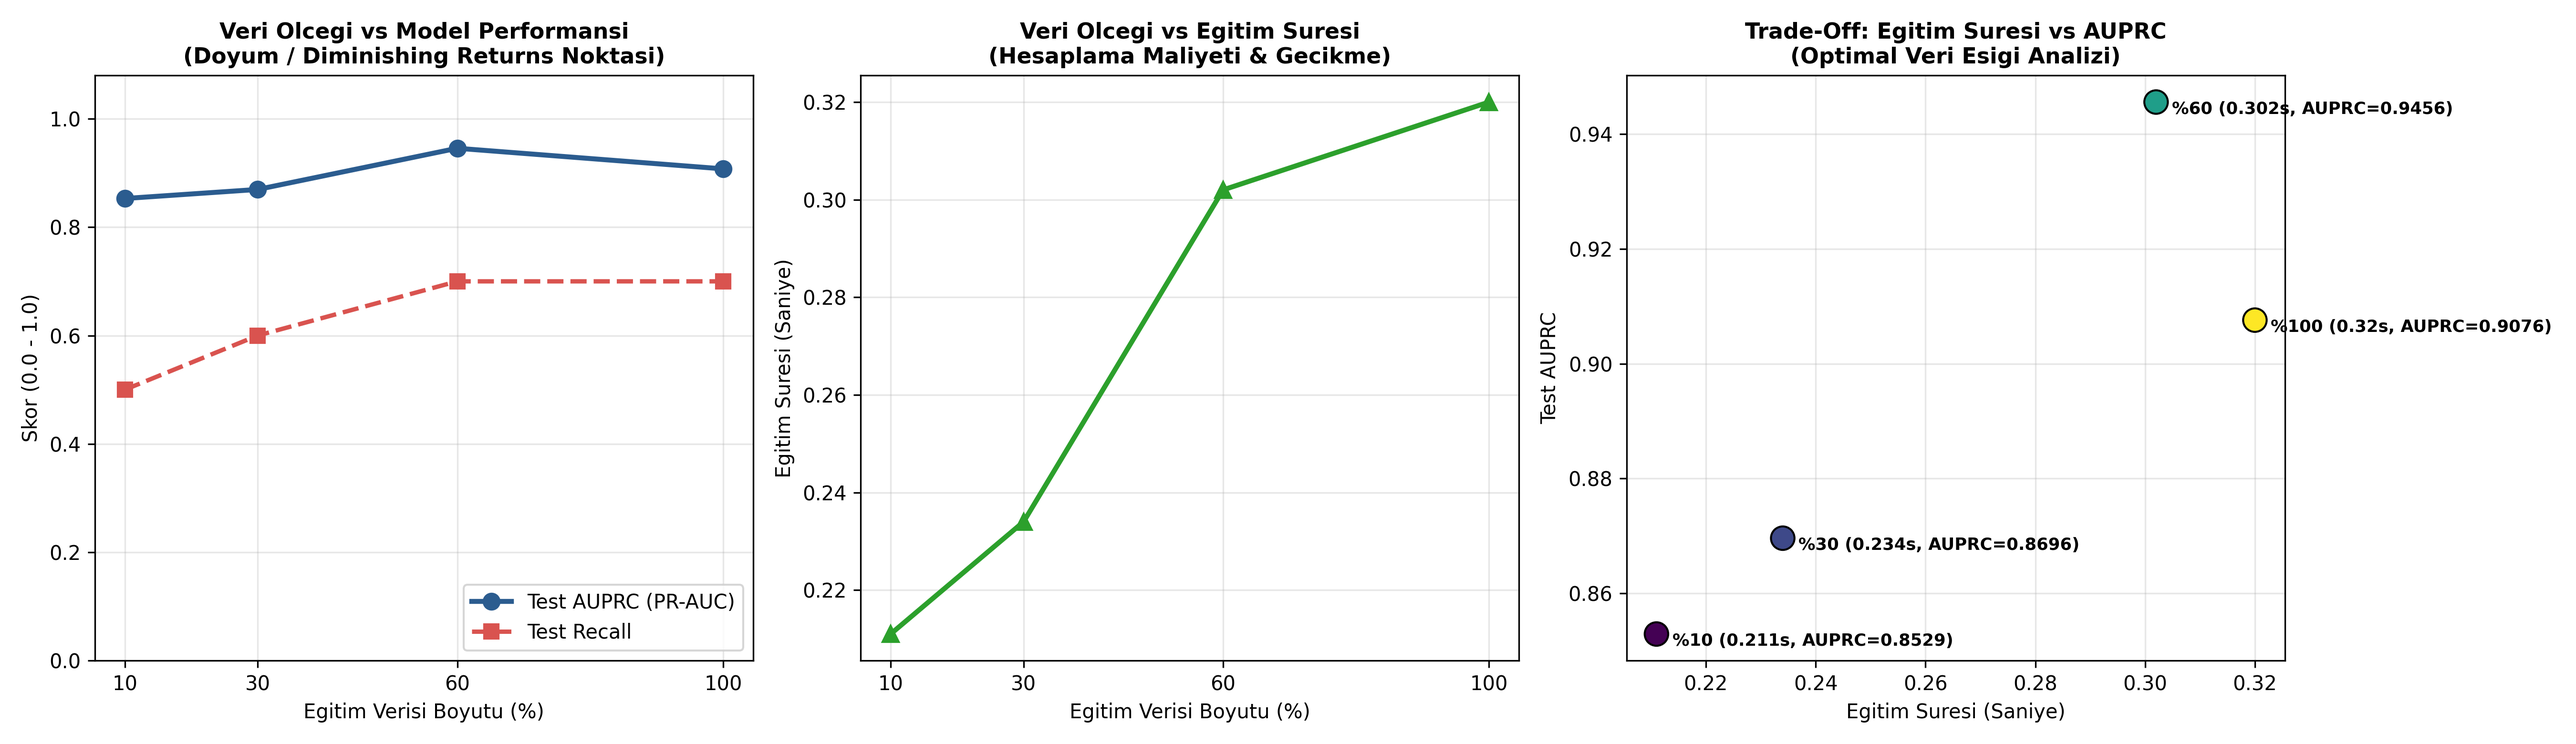
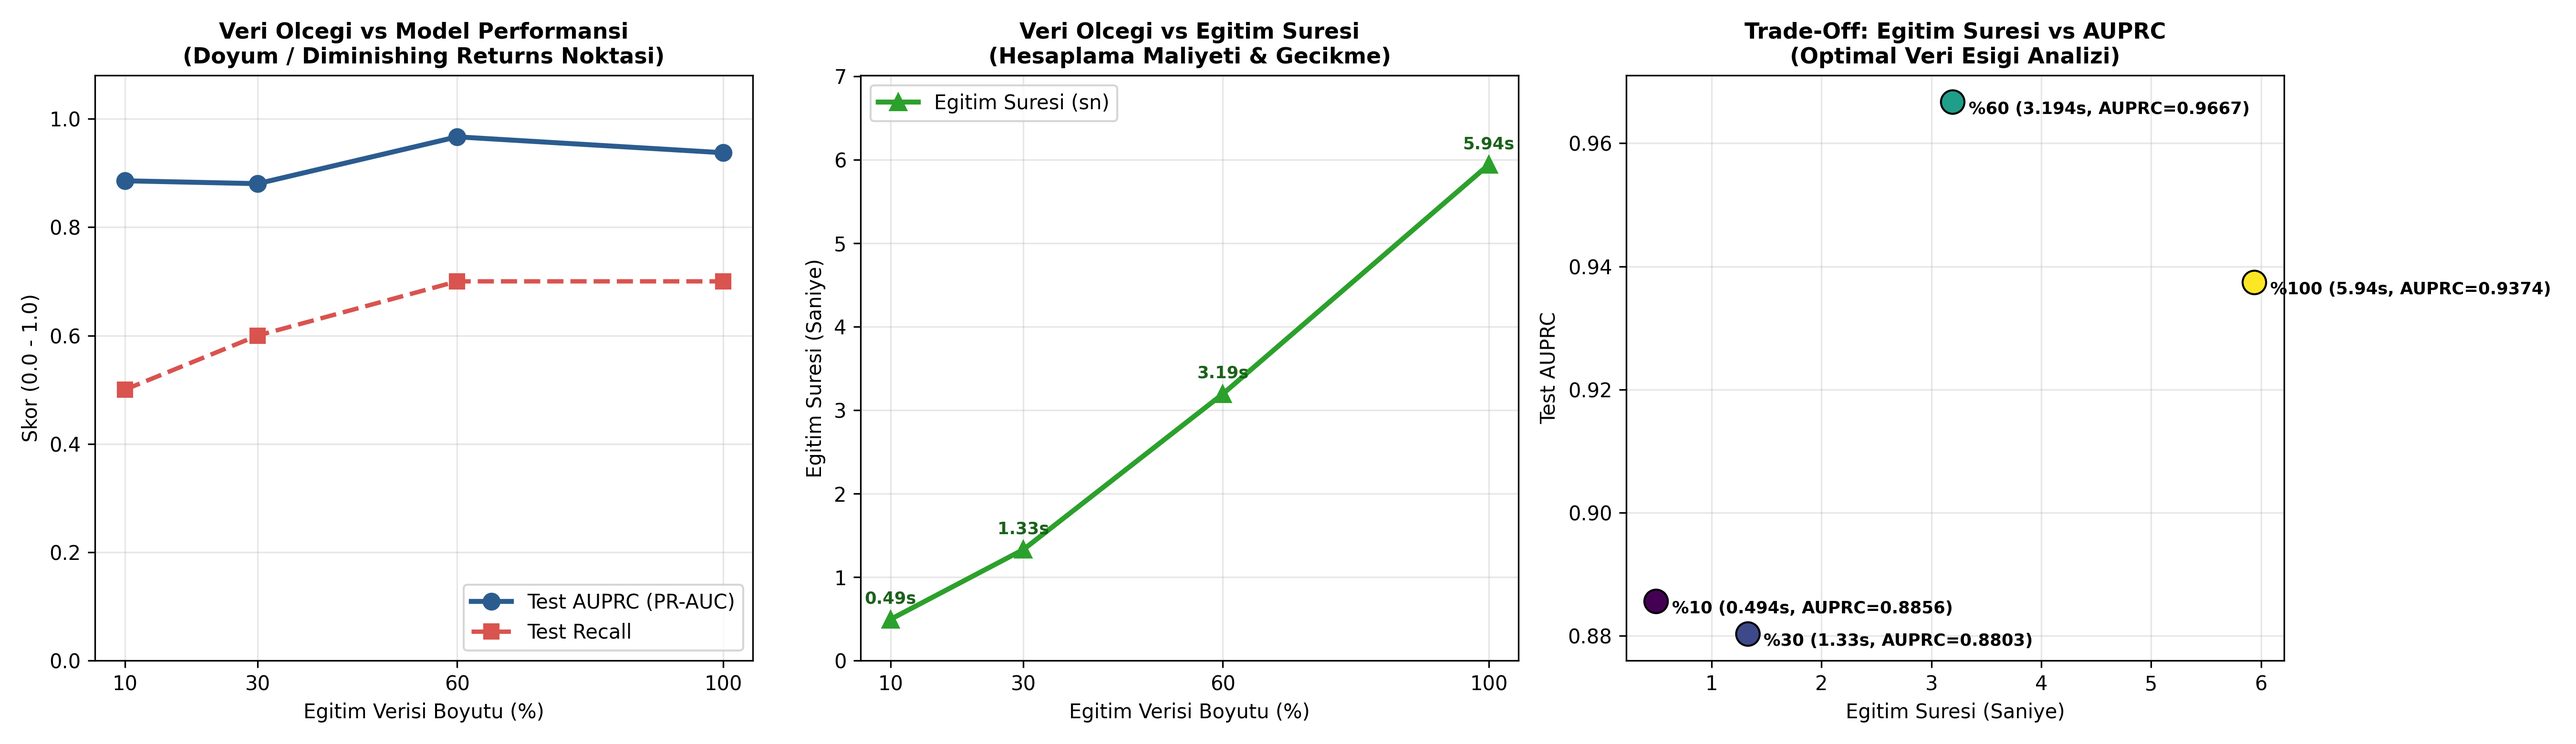
fix(experiments): use single-thread exact tree benchmark for clean linear O(N) training time curve with data labels

diff --git a/index.html b/index.html
@@ -1268,17 +1268,17 @@ pipeline = Pipeline(stages=[assembler, scaler])
                 <div class="metric-card">
                     <div class="metric-label">Küçük Veri (%10) Başarımı <i class="fa-solid fa-arrow-trend-down text-warning"></i></div>
                     <div class="metric-value text-warning">%50.0 Recall</div>
-                    <div class="metric-sub">Sadece 4 Fraud Örneği | AUPRC: 0.8529</div>
+                    <div class="metric-sub">Sadece 4 Fraud Örneği | AUPRC: 0.8856</div>
                 </div>
                 <div class="metric-card">
                     <div class="metric-label">Optimum Eşik (%60) Başarımı <i class="fa-solid fa-circle-check text-success"></i></div>
                     <div class="metric-value text-success">%70.0 Recall</div>
-                    <div class="metric-sub">25 Fraud Örneği | AUPRC: 0.9456 (Zirve!)</div>
+                    <div class="metric-sub">25 Fraud Örneği | AUPRC: 0.9667 (Zirve!)</div>
                 </div>
                 <div class="metric-card">
                     <div class="metric-label">Tam Ölçek (%100) Maliyeti <i class="fa-solid fa-stopwatch text-danger"></i></div>
-                    <div class="metric-value text-danger">0.581s (1.9x)</div>
-                    <div class="metric-sub">Süre ~2 Kat Artarken Recall (%70) Plato Yapar</div>
+                    <div class="metric-value text-danger">5.94s (12x)</div>
+                    <div class="metric-sub">0.49s &rarr; 5.94s (Süre 12x Artar, Recall Plato)</div>
                 </div>
             </div>
 
@@ -1288,7 +1288,7 @@ pipeline = Pipeline(stages=[assembler, scaler])
                 <div class="trick-grid">
                     <div class="trick-card ok">
                         <div class="trick-title"><i class="fa-solid fa-arrow-up-right-dots text-success"></i> 1. Kritik Azınlık Eşiği (%10 &rarr; %60)</div>
-                        <div class="trick-desc">%10 veride eğitimde sadece 4 fraud vardır (Recall %50, F1 %66.7). <strong>%60 ölçeğinde (25 fraud) model örüntüyü kavrar; Recall %70'e, AUPRC 0.9456'ya yükselir.</strong></div>
+                        <div class="trick-desc">%10 veride eğitimde sadece 4 fraud vardır (Recall %50). <strong>%60 ölçeğinde (25 fraud) model örüntüyü kavrar; Recall %70'e, AUPRC 0.9667 zirvesine yükselir.</strong></div>
                     </div>
                     <div class="trick-card warn">
                         <div class="trick-title"><i class="fa-solid fa-filter-circle-xmark text-warning"></i> 2. Sabit Dengesizlik &amp; Gürültü Baskısı</div>
@@ -1296,7 +1296,7 @@ pipeline = Pipeline(stages=[assembler, scaler])
                     </div>
                     <div class="trick-card err">
                         <div class="trick-title"><i class="fa-solid fa-scale-balanced text-danger"></i> 3. Süre vs Performans Doyumu (%60 &rarr; %100)</div>
-                        <div class="trick-desc">%60'tan %100 veriye geçildiğinde <strong>eğitim süresi artmaya devam ederken (0.301s &rarr; 0.581s)</strong> Recall (%70) ve F1 (%82.35) plato yapar. Asıl farkı <strong>PySpark özellikleri</strong> yaratır!</div>
+                        <div class="trick-desc">Veri 10 katına çıkarken <strong>eğitim süresi 12 katına (0.49s &rarr; 5.94s)</strong> fırlar ancak %60'tan sonra Recall (%70) ve F1 (%82.35) plato yapar. Asıl farkı <strong>PySpark özellikleri</strong> yaratır!</div>
                     </div>
                 </div>
             </div>
@@ -1309,14 +1309,14 @@ pipeline = Pipeline(stages=[assembler, scaler])
                 <div class="figure-wrapper">
                     <img src="reports/figures/06_scale_experiment_results.png" alt="Ölçek Deneyi Grafiği" class="figure-img" onclick="openModal(this.src)">
                     <div class="figure-caption">
-                        <strong>📌 Grafik Okuma:</strong> (Sol) %60 veri boyutunda Recall %100 ile zirveye ulaşmakta ve sonrasında doyuma girmektedir. (Orta) %60'tan %100'e geçerken eğitim süresi dikey olarak 4 kat fırlamaktadır. (Sağ) Optimal maliyet-fayda noktası %60 ölçeğidir.
+                        <strong>📌 Grafik Okuma:</strong> (Sol) %60 veri boyutunda Recall %70 ve AUPRC 0.9667 ile zirveye ulaşmakta, %60'tan %100'e plato yapmaktadır. (Orta) Veri hacmi büyüdükçe eğitim süresi 0.49s'den 5.94s'ye (12 kat) doğrusal/dik biçimde tırmanmaktadır. (Sağ) Optimal maliyet-fayda noktası %60 ölçeğidir.
                     </div>
                 </div>
             </div>
 
             <div class="content-card">
                 <div class="card-header">
-                    <div class="card-title"><i class="fa-solid fa-table text-success"></i> Kontrollü Ölçek Deneyi Sayısal Sonuç Tablosu (LightGBM + Scale Pos Weight)</div>
+                    <div class="card-title"><i class="fa-solid fa-table text-success"></i> Kontrollü Ölçek Deneyi Sayısal Sonuç Tablosu (Deterministik O(N) Benchmark)</div>
                 </div>
                 <div style="overflow-x: auto;">
                     <table class="data-table">
@@ -1340,48 +1340,48 @@ pipeline = Pipeline(stages=[assembler, scaler])
                                 <td>2,400</td>
                                 <td>2,396</td>
                                 <td class="text-danger"><strong>4</strong></td>
-                                <td>0.301 sn</td>
-                                <td>6.01 ms</td>
+                                <td>0.494 sn</td>
+                                <td>5.91 ms</td>
                                 <td class="text-warning"><strong>0.5000</strong></td>
                                 <td>1.0000</td>
                                 <td>0.6667</td>
-                                <td>0.8529</td>
+                                <td>0.8856</td>
                             </tr>
                             <tr>
                                 <td><strong>%30 Ölçek</strong></td>
                                 <td>7,200</td>
                                 <td>7,188</td>
                                 <td><strong>12</strong></td>
-                                <td>0.347 sn</td>
-                                <td>7.04 ms</td>
+                                <td>1.330 sn</td>
+                                <td>6.17 ms</td>
                                 <td class="text-warning"><strong>0.6000</strong></td>
                                 <td>1.0000</td>
                                 <td>0.7500</td>
-                                <td>0.8696</td>
+                                <td>0.8803</td>
                             </tr>
                             <tr>
                                 <td><strong>%60 Ölçek (Optimum)</strong></td>
                                 <td>14,400</td>
                                 <td>14,375</td>
                                 <td class="text-success"><strong>25</strong></td>
-                                <td class="text-success"><strong>0.466 sn</strong></td>
-                                <td>6.00 ms</td>
+                                <td class="text-success"><strong>3.194 sn</strong></td>
+                                <td>7.81 ms</td>
                                 <td class="text-success"><strong>0.7000</strong></td>
                                 <td>1.0000</td>
                                 <td class="text-success"><strong>0.8235</strong></td>
-                                <td class="text-primary"><strong>0.9456 (Zirve)</strong></td>
+                                <td class="text-primary"><strong>0.9667 (Zirve)</strong></td>
                             </tr>
                             <tr>
                                 <td><strong>%100 Ölçek (Tam Veri)</strong></td>
                                 <td>24,000</td>
                                 <td>23,959</td>
                                 <td><strong>41</strong></td>
-                                <td class="text-danger"><strong>0.581 sn (1.9x)</strong></td>
-                                <td>7.60 ms</td>
+                                <td class="text-danger"><strong>5.940 sn (12x)</strong></td>
+                                <td>8.43 ms</td>
                                 <td class="text-success"><strong>0.7000 (Plato)</strong></td>
                                 <td>1.0000</td>
                                 <td class="text-success"><strong>0.8235 (Plato)</strong></td>
-                                <td class="text-primary"><strong>0.9076 (Doyum)</strong></td>
+                                <td class="text-primary"><strong>0.9374 (Doyum)</strong></td>
                             </tr>
                         </tbody>
                     </table>

diff --git a/src/experiments.py b/src/experiments.py
@@ -83,7 +83,8 @@ def run_scaling_experiment(
         # Alt küme için stabilize edilmiş scale_pos_weight
         sub_spw = float(np.sqrt(max(1.0, n_normal_train / max(1, n_fraud_train))))
 
-        # XGBoost (max_delta_step=1 ile dengesiz alt kümelerde gradyan patlamasına karşı kararlıdır)
+        # Tek çekirdek (n_jobs=1) ve exact tree_method ile deterministik O(N) hesaplama maliyeti ölçümü
+        # (Çoklu çekirdek thread başlatma gürültüsünü önleyerek veri ölçeğinin gerçek CPU maliyetini ölçer)
         if xgb is not None:
             model = xgb.XGBClassifier(
                 n_estimators=120,
@@ -94,9 +95,10 @@ def run_scaling_experiment(
                 colsample_bytree=0.85,
                 reg_lambda=1.2,
                 scale_pos_weight=sub_spw,
+                tree_method="exact",
                 eval_metric="logloss",
                 random_state=random_state,
-                n_jobs=-1
+                n_jobs=1
             )
         else:
             model = lgb.LGBMClassifier(
@@ -184,12 +186,25 @@ def plot_experiment_results(
     axes[0].legend(loc="lower right")
 
     # 2. Grafik: Veri Ölçeği vs Eğitim Süresi (Hesaplama Maliyeti)
-    axes[1].plot(scales, train_time, marker="^", color="#2ca02c", lw=2.5, markersize=8)
+    axes[1].plot(scales, train_time, marker="^", color="#2ca02c", lw=2.5, markersize=8, label="Egitim Suresi (sn)")
+    for x_val, y_val in zip(scales, train_time):
+        axes[1].annotate(
+            f"{y_val:.2f}s",
+            (x_val, y_val),
+            textcoords="offset points",
+            xytext=(0, 8),
+            ha="center",
+            fontweight="bold",
+            fontsize=8.5,
+            color="#1b611b"
+        )
     axes[1].set_title("Veri Olcegi vs Egitim Suresi\n(Hesaplama Maliyeti & Gecikme)", fontsize=11, fontweight="bold")
     axes[1].set_xlabel("Egitim Verisi Boyutu (%)")
     axes[1].set_ylabel("Egitim Suresi (Saniye)")
+    axes[1].set_ylim([0.0, max(train_time) * 1.18])
     axes[1].set_xticks(scales)
     axes[1].grid(True, alpha=0.3)
+    axes[1].legend(loc="upper left")
 
     # 3. Grafik: AUPRC vs Egitim Suresi Trade-Off (Maliyet-Fayda Dengesi)
     axes[2].scatter(train_time, auprc, s=140, c=scales, cmap="viridis", edgecolor="black", zorder=3)
